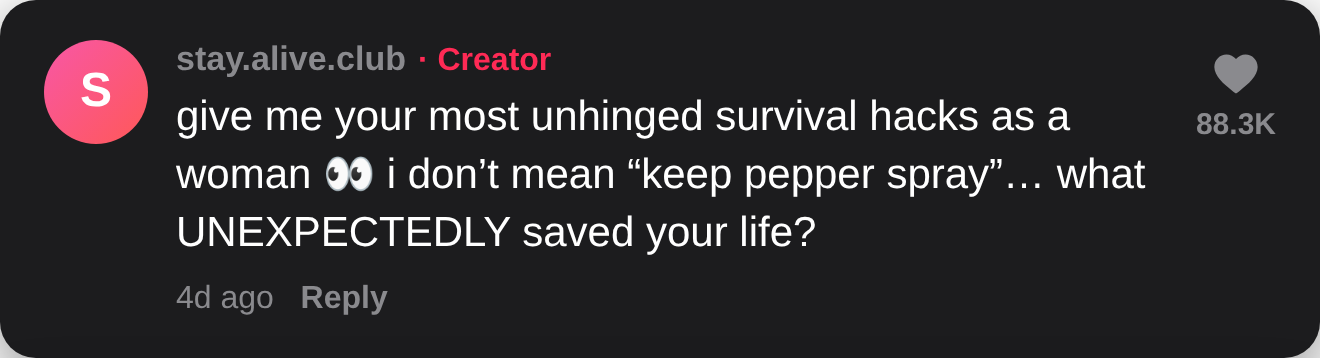
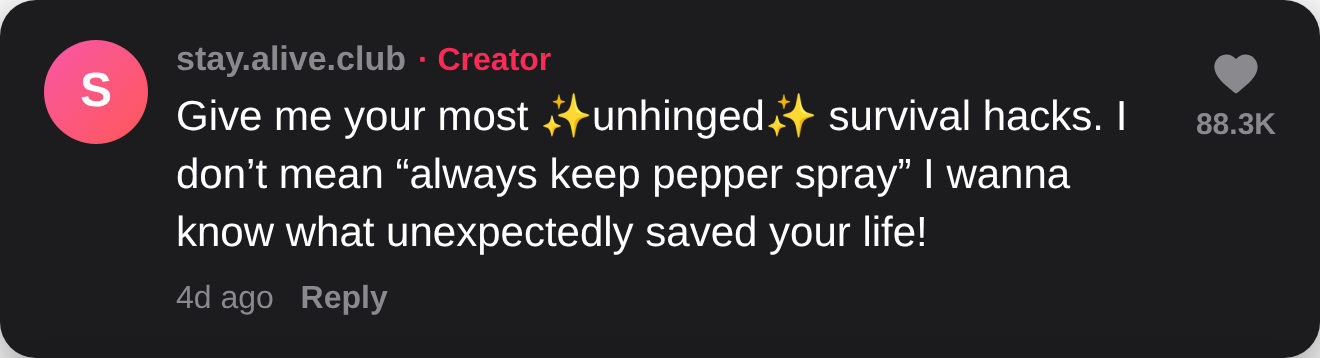
Match intro card text to the original post prompt verbatim
Claude-Session: https://claude.ai/code/session_01RRn77gP7w1sKBXZWtsVrHx

Changed region(s): [[0.1242, 0.2765, 0.8697, 0.3994], [0.1242, 0.4302, 0.8697, 0.5531], [0.1242, 0.5838, 0.7144, 0.7067]]

diff --git a/comment_cards/render.js b/comment_cards/render.js
@@ -15,7 +15,7 @@ const OUT = path.join(__dirname, 'out');
 // Scene-mapped cards. Handles are fictional/anonymized on purpose.
 const CARDS = [
   { n: 1,  user: 'stay.alive.club', creator: true,  time: '4d',  likes: '88.3K',
-    text: "give me your most unhinged survival hacks as a woman \u{1F440} i don’t mean “keep pepper spray”… what UNEXPECTEDLY saved your life?" },
+    text: "Give me your most \u{2728}unhinged\u{2728} survival hacks. I don’t mean “always keep pepper spray” I wanna know what unexpectedly saved your life!" },
   { n: 2,  user: 'finalgirl_energy', time: '4d', likes: '412.8K',
     text: "don’t scream “help.” scream FIRE. nobody comes for help — EVERYBODY comes to see a fire \u{1F525}" },
   { n: 3,  user: 'midwest.mama', time: '4d', likes: '389.1K',
